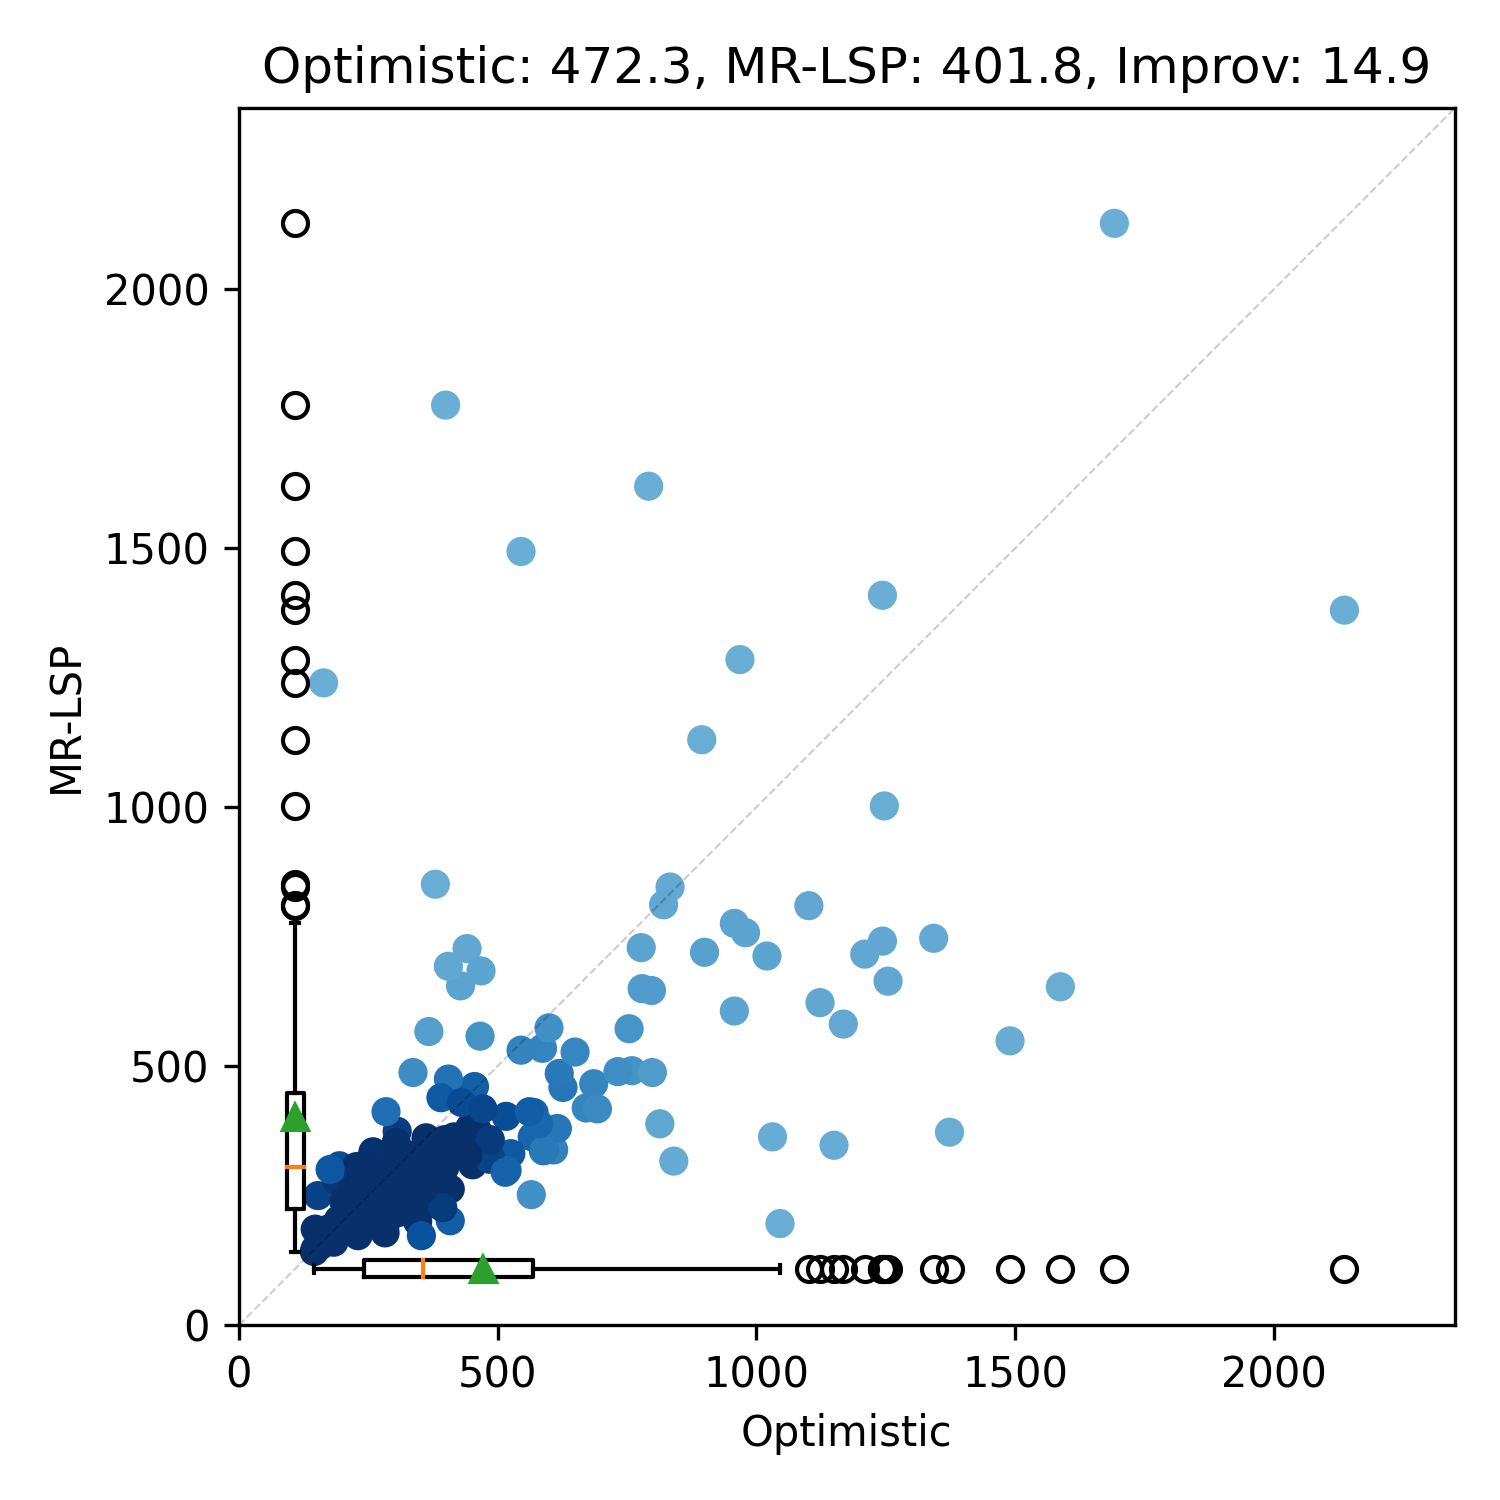
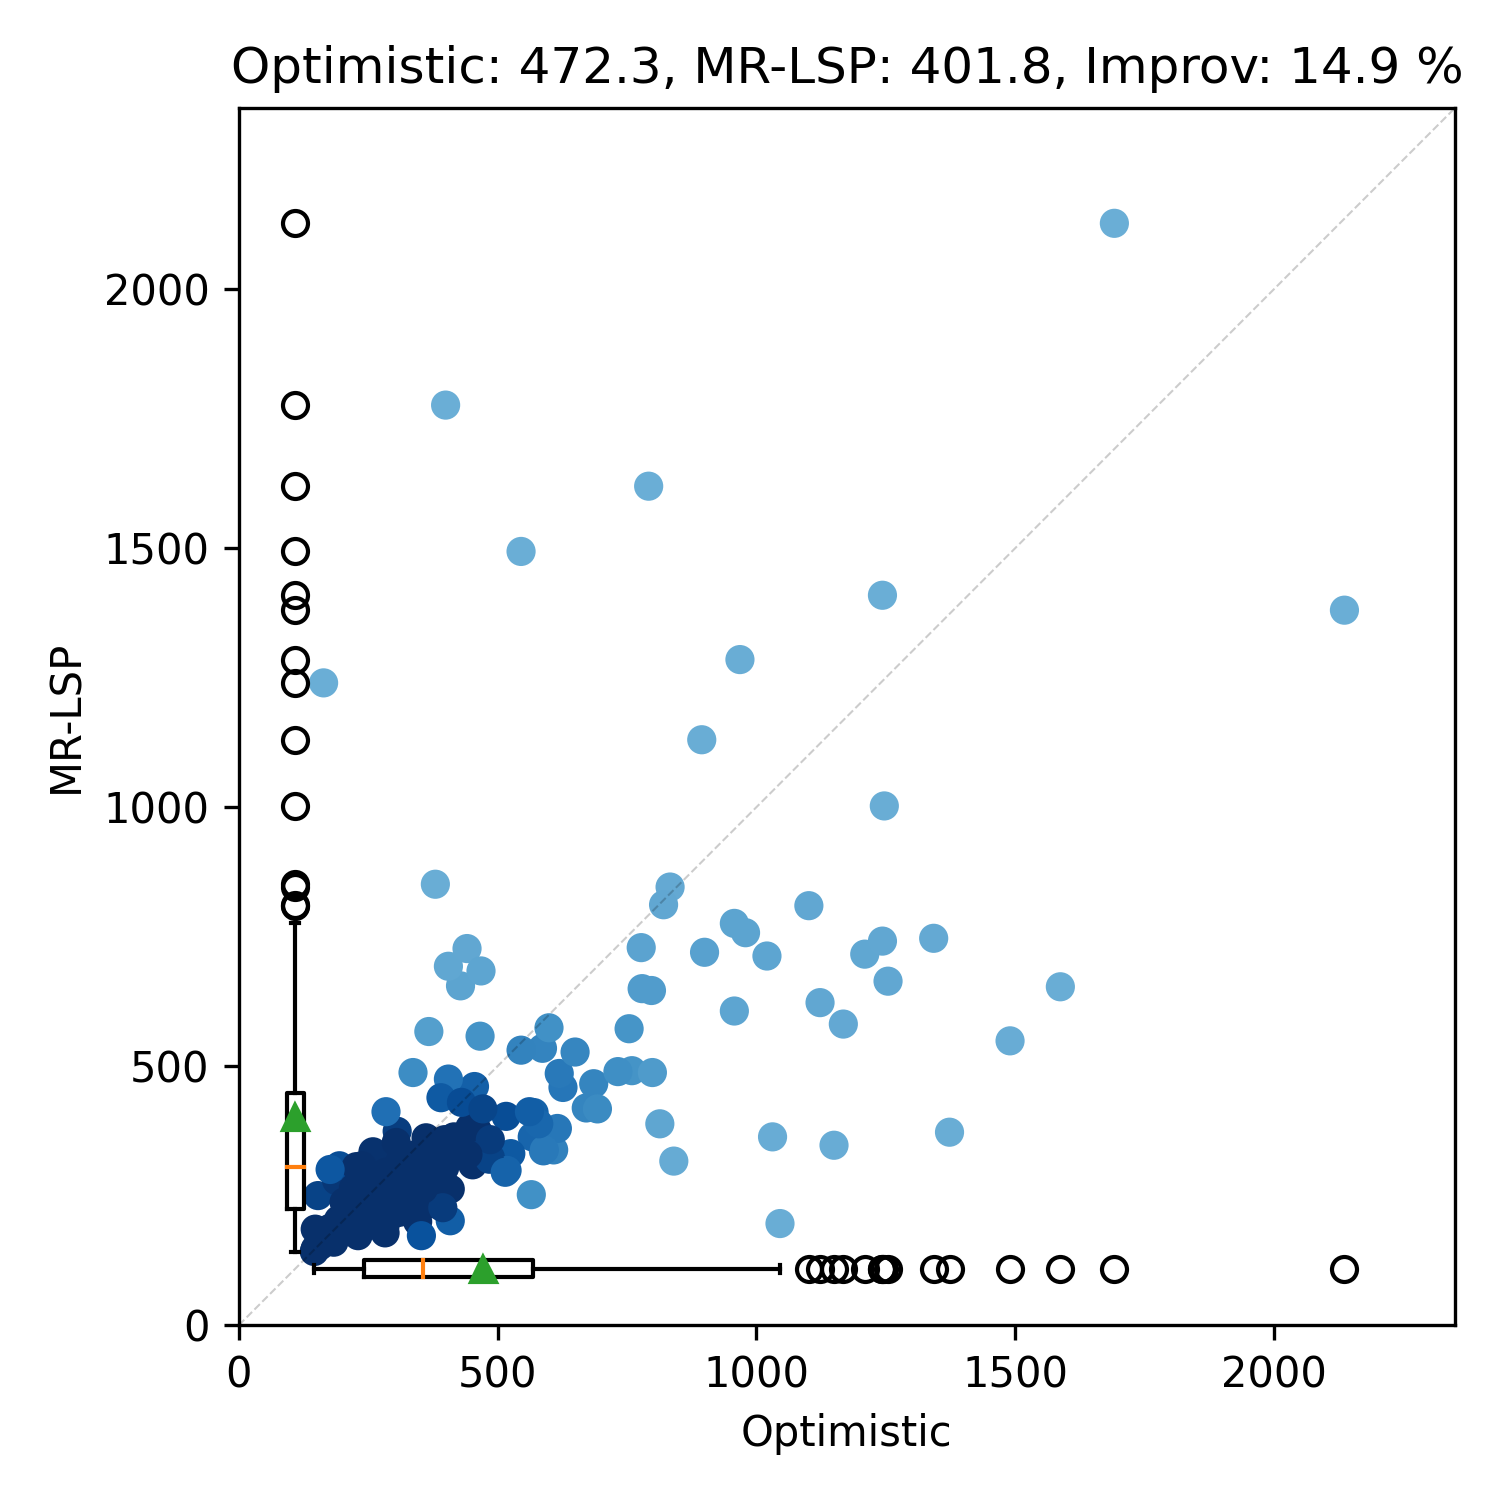
mrlsp: readme.md; add % to results

Changed region(s): [[0.1533, 0.0307, 0.9813, 0.0613]]

diff --git a/modules/mrlsp/mrlsp/utils/plotting.py b/modules/mrlsp/mrlsp/utils/plotting.py
@@ -122,6 +122,6 @@ def make_scatter_plot_with_box(data_x, data_y, max_val=None, xlabel='Baseline', 
     learned_cost = np.average(data_y)
     improv = (baseline_cost - learned_cost) / baseline_cost * 100
 
-    f_ax_mid.set_title(f"{xlabel}: {baseline_cost:.1f}, {ylabel}: {learned_cost:.1f}, Improv: {improv:.1f}")
+    f_ax_mid.set_title(f"{xlabel}: {baseline_cost:.1f}, {ylabel}: {learned_cost:.1f}, Improv: {improv:.1f} %")
 
     return f_ax_mid

diff --git a/modules/mrlsp/README.md b/modules/mrlsp/README.md
@@ -23,7 +23,7 @@ The `Makefile.mk` provides multiple targets for reproducing results.
 - `make mrlsp-vis` will visualize the planner in office environment.
 - `make mrlsp-results` will first generate data using targets described in `lsp` module, trains the neural net, evaluates the planner, and generate results. Running this target produces results as shown below for 1, 2, and 3 robots in 200 procedurally generated `office2` environment.
 
-| ![Figure 1](resources/r_2_scatter.png) | ![Figure 2](resources/r_2_scatter.png) | ![Figure 3](resources/r_2_scatter.png) |
+| ![Figure 1](resources/r_1_scatter.png) | ![Figure 2](resources/r_2_scatter.png) | ![Figure 3](resources/r_3_scatter.png) |
 |:--------------------:|:--------------------:|:--------------------:|
 | Num_robots = 1          | Num_robots = 2            | Num_robots = 3            |
 
